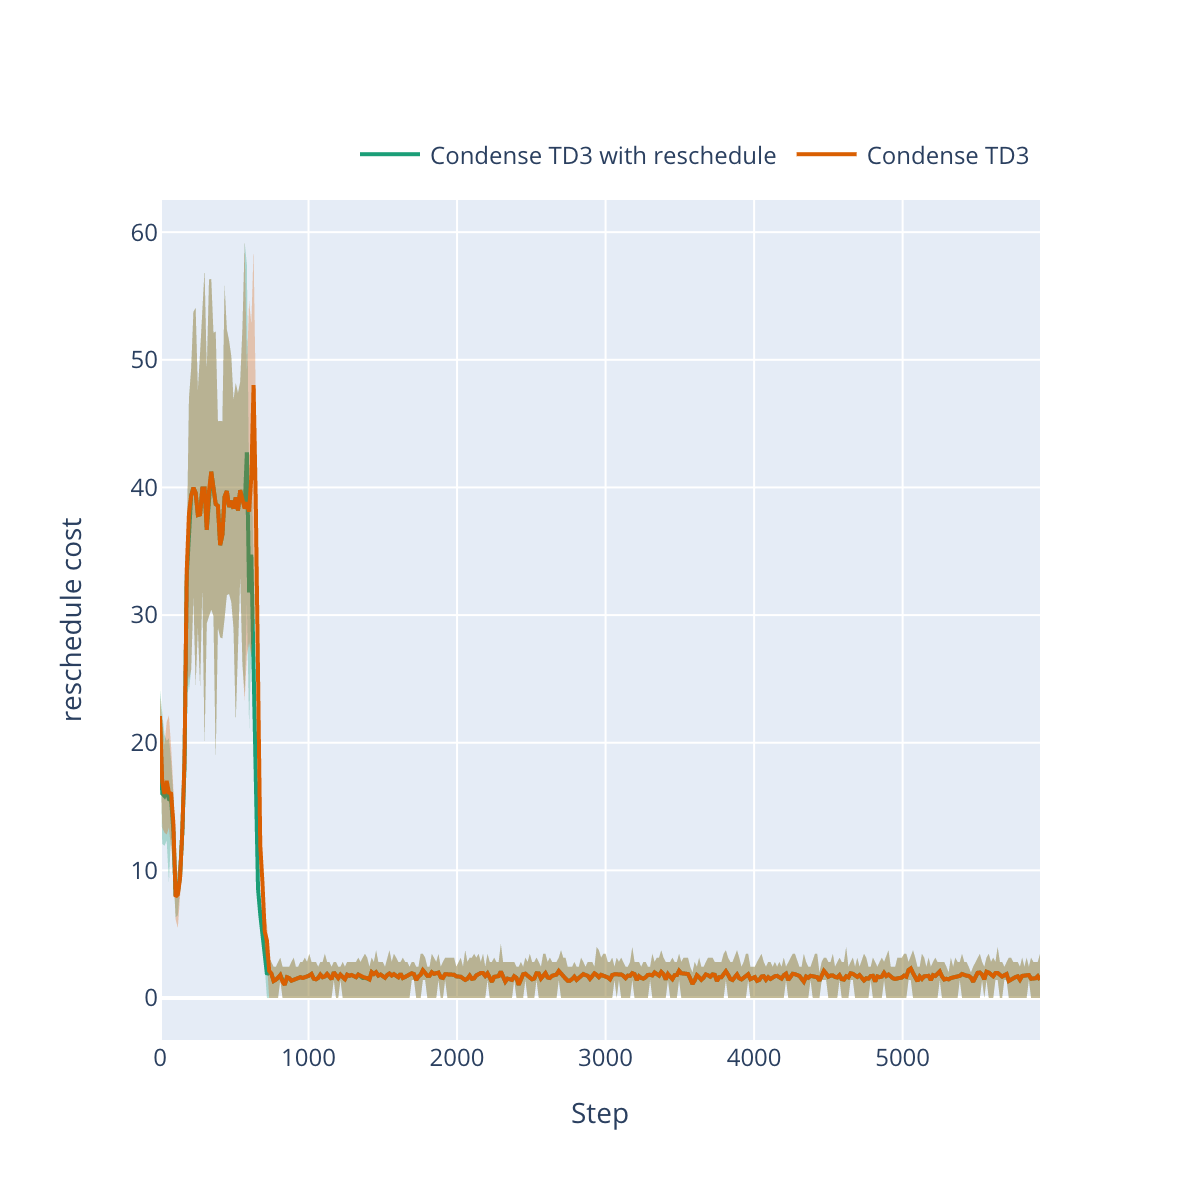
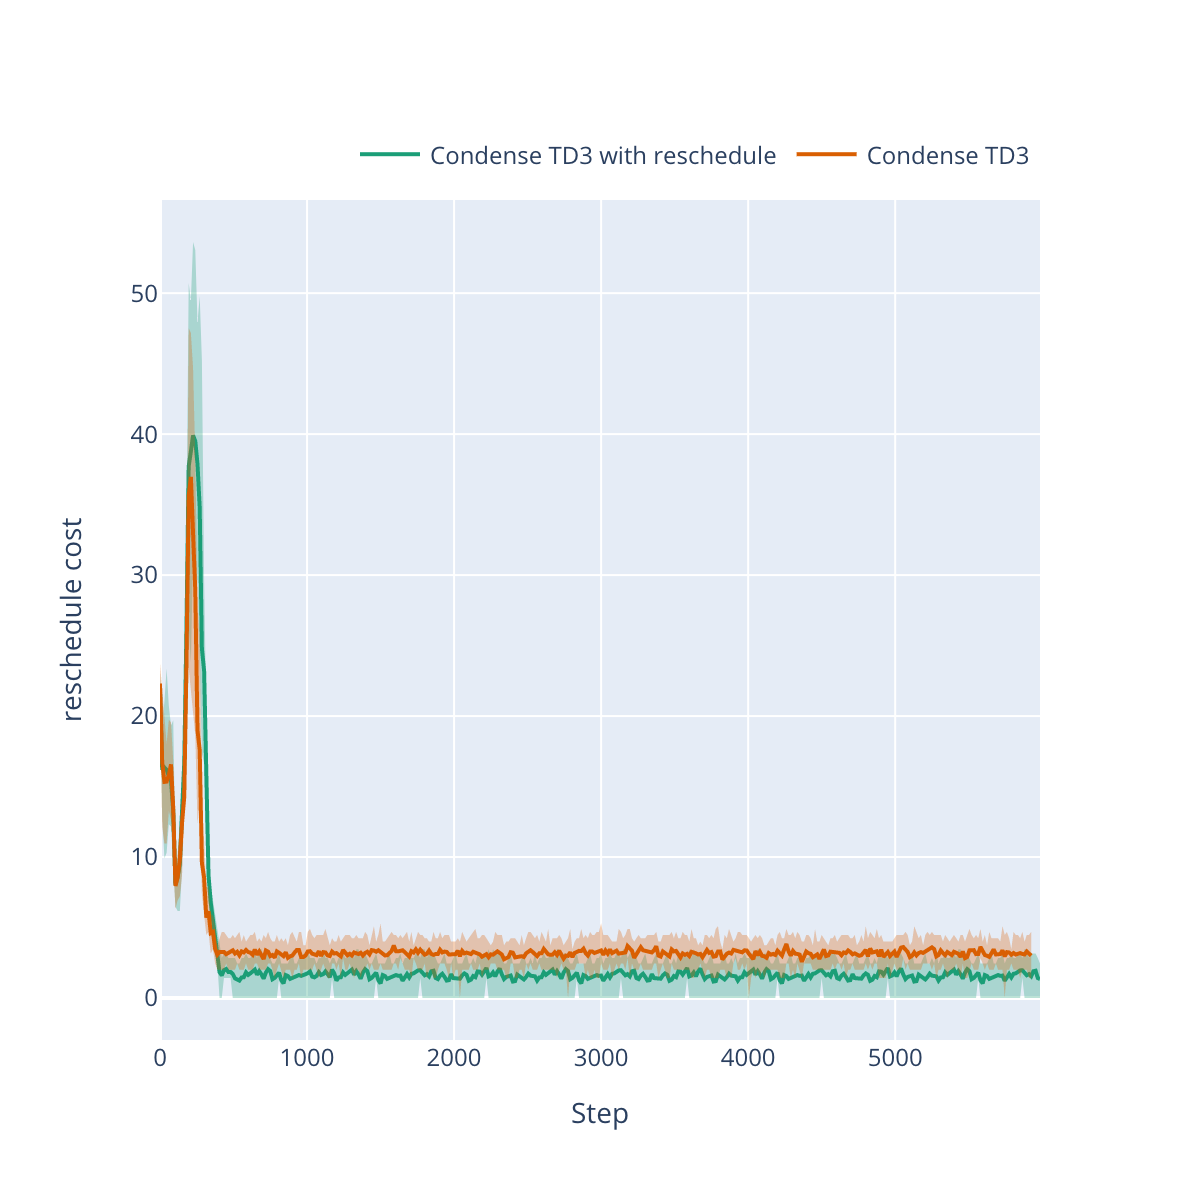
complex homo

diff --git a/Simulator/complex_log.py b/Simulator/complex_log.py
@@ -18,6 +18,7 @@ class ComplexLogEnv(gym.Env):
                        n_spouts  = 10,
                        seed      = 20210723,
                        bandwidth = 120,
+                    #    bandwidth = 120,
                     ) -> None:
         """
         Construct all the necessary attributes for the word couting topology
@@ -88,6 +89,13 @@ class ComplexLogEnv(gym.Env):
         return [seed]
 
     def build_topology(self, debug=False):
+        all_spouts = [
+                {   "rate_sampler":PoissonSampler(5.), 
+                    "batch":40,
+                    "random_seed":self.random_seed,
+                    "subset":True,
+                } for _ in range(self.n_spouts)]
+
         low = [
                 {   "rate_sampler":PoissonSampler(3., random_seed=self.random_seed+offset), 
                     "batch":100,
@@ -111,7 +119,8 @@ class ComplexLogEnv(gym.Env):
                 for offset in range(self.n_spouts-len(low)-len(high))]
 
         exe_info = {
-            'spout': ['spout', self.n_spouts, high+med+low],
+            # 'spout': ['spout', self.n_spouts, high+med+low],
+            'spout': ['spout', self.n_spouts, all_spouts],
             'A': ['bolt', 20, {
                     'd_transform': IdentityDataTransformer(),
                     'batch':100,
@@ -150,17 +159,17 @@ class ComplexLogEnv(gym.Env):
         }
 
         edges = self.build_homo_edge(self.n_machines, self.bandwidth, self.edge_batch)
-        selection = np.random.choice(list(range(len(edges))), size=(self.n_machines*(self.n_machines-1))//2, replace=False)
-        for i in selection:
-            s, d, _, da = edges[i]
-            edges[i] = (s, d, 80, da)
+        # selection = np.random.choice(list(range(len(edges))), size=(self.n_machines*(self.n_machines-1))//2, replace=False)
+        # for i in selection:
+        #     s, d, _, da = edges[i]
+        #     edges[i] = (s, d, 80, da)
 
-        print(edges)
+        # print(edges)
 
         self.topology = Topology(self.n_machines, exe_info, random_seed=self.random_seed)
         self.topology.build_executors()
-        # self.topology.build_homo_machines()
-        self.topology.build_heter_machines([0.7]*3+[1]*4+[1.3]*3)
+        self.topology.build_homo_machines(1)
+        # self.topology.build_heter_machines([0.7]*3+[1]*4+[1.3]*3)
         self.topology.build_machine_graph(edges)
         self.topology.round_robin_init(shuffle=False)
 
